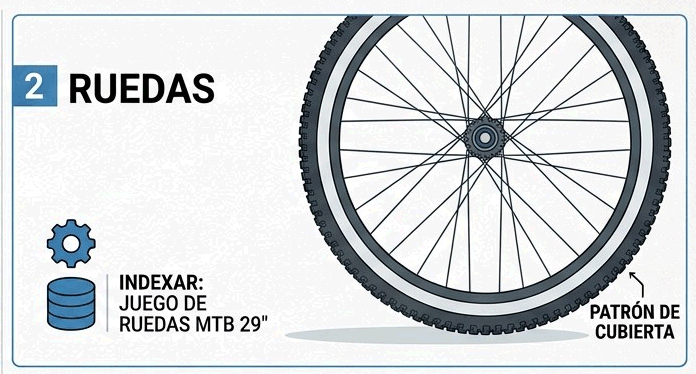
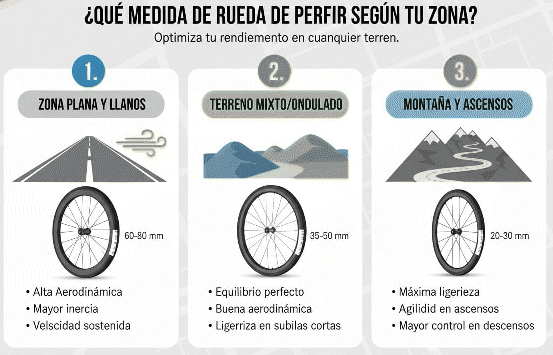
feat: Rag update images

diff --git a/public/index.html b/public/index.html
@@ -77,6 +77,9 @@
           <circle cx="4" cy="20" r="2" />
         </svg> IA
       </a>
+      <a class="tool-bar-button border-slate-200 inline-flex" href="/embedding.html">
+        RAG
+      </a>
     </div>
 
     <section class="grid gap-6 lg:grid-cols-[1.3fr_1fr]">
